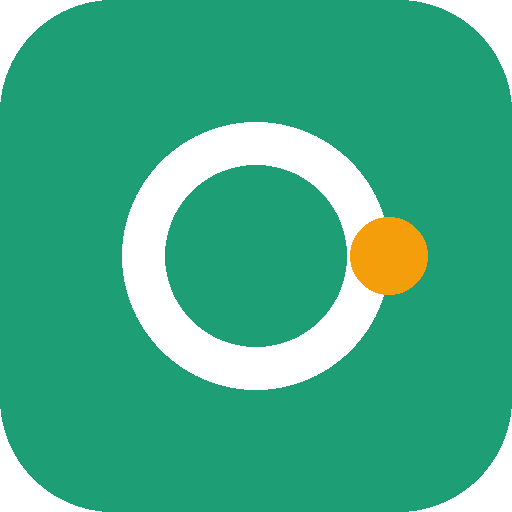
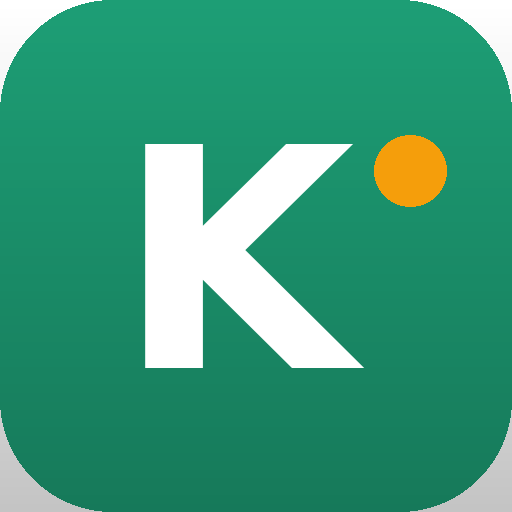
Add files via upload

diff --git a/index.html b/index.html
@@ -6,13 +6,13 @@
 <meta name="viewport" content="width=device-width, initial-scale=1, maximum-scale=1, user-scalable=no, viewport-fit=cover">
 <meta name="theme-color" content="#F2F3F7" media="(prefers-color-scheme: light)">
 <meta name="theme-color" content="#0C0E15" media="(prefers-color-scheme: dark)">
-<title>Ocosingo</title>
+<title>Kiosko</title>
 <link rel="manifest" href="manifest.json">
 <link rel="apple-touch-icon" href="icons/icon-192.png">
 <meta name="apple-mobile-web-app-capable" content="yes">
 <meta name="mobile-web-app-capable" content="yes">
 <meta name="apple-mobile-web-app-status-bar-style" content="default">
-<meta name="apple-mobile-web-app-title" content="Ocosingo">
+<meta name="apple-mobile-web-app-title" content="Kiosko">
 <link rel="preconnect" href="https://fonts.googleapis.com">
 <link href="https://fonts.googleapis.com/css2?family=Plus+Jakarta+Sans:wght@500;600;700;800&display=swap" rel="stylesheet">
 <style>
@@ -162,6 +162,8 @@ input{font:inherit;color:inherit}
 .sheet{width:100%;max-width:640px;background:var(--bg);border-radius:26px 26px 0 0;padding:10px 18px calc(20px + env(safe-area-inset-bottom));max-height:92vh;overflow-y:auto;animation:up .38s var(--ease)}
 @keyframes up{from{transform:translateY(100%)}}
 .handle{width:38px;height:5px;border-radius:99px;background:var(--line);margin:0 auto 14px}
+.sheet.drag{transition:none}
+.sheet.snap{transition:transform .28s var(--ease)}
 .sheet h3{font-size:20px;font-weight:800;letter-spacing:-.03em;margin-bottom:14px}
 .prod{background:var(--card);border-radius:16px;padding:14px 16px;display:flex;justify-content:space-between;align-items:center;gap:12px;box-shadow:var(--shadow)}
 .prod b{font-size:15px;font-weight:700}
@@ -325,7 +327,8 @@ input{font:inherit;color:inherit}
 
 /* miniaturas de producto */
 .thumb{width:46px;height:46px;border-radius:12px;flex-shrink:0;overflow:hidden;position:relative;display:grid;place-items:center;font-weight:800;font-size:16px;color:#fff;background:var(--ph,var(--selva));letter-spacing:-.03em}
-.thumb img{position:absolute;inset:0;width:100%;height:100%;object-fit:cover;opacity:0;transition:opacity .3s}
+.thumb img{position:absolute;inset:0;width:100%;height:100%;object-fit:cover;opacity:0;transition:opacity .3s;border-radius:inherit}
+.thumb{-webkit-mask-image:-webkit-radial-gradient(#fff,#000);isolation:isolate}
 .thumb img.ok{opacity:1}
 .thumb.lg{width:64px;height:64px;border-radius:16px;font-size:22px}
 .thumb.sm{width:36px;height:36px;border-radius:10px}
@@ -354,8 +357,8 @@ input{font:inherit;color:inherit}
 .gal-wrap .gal-track .thumb{aspect-ratio:5/4}
 .gal-wrap+.prod.compact{margin-top:0}
 /* galería en hoja de venta */
-.gal{position:relative;margin:-4px 0 12px;border-radius:20px;overflow:hidden;background:transparent;box-shadow:var(--shadow);-webkit-mask-image:-webkit-radial-gradient(#fff,#000);isolation:isolate}
-.gal-track{display:flex;overflow-x:auto;scroll-snap-type:x mandatory;scrollbar-width:none;-webkit-overflow-scrolling:touch;border-radius:inherit}
+.gal{position:relative;margin:-4px 0 12px;border-radius:20px;overflow:hidden;background:transparent;box-shadow:var(--shadow);clip-path:inset(0 round 20px);-webkit-clip-path:inset(0 round 20px)}
+.gal-track{display:flex;overflow-x:auto;scroll-snap-type:x mandatory;scrollbar-width:none;-webkit-overflow-scrolling:touch;border-radius:20px;background:transparent}
 .gal-track::-webkit-scrollbar{display:none}
 .gal-track .thumb{flex:0 0 100%;width:100%;height:auto;aspect-ratio:4/3;border-radius:20px;font-size:40px;scroll-snap-align:start}
 .gal-track .thumb .ph{width:28%;height:28%}
@@ -465,8 +468,8 @@ input{font:inherit;color:inherit}
 <!-- LOGIN -->
 <div id="login">
   <div class="brand">
-    <div class="brand-mark">Oc</div>
-    <h1>Tienda Ocosingo</h1>
+    <div class="brand-mark">Ki</div>
+    <h1>Kiosko</h1>
     <p>Ingresa tu PIN</p>
   </div>
   <div class="pin-dots" id="dots"><span></span><span></span><span></span><span></span></div>
@@ -546,7 +549,7 @@ input{font:inherit;color:inherit}
     <div id="quick-list"></div>
   </div>
 </div>
-<div id="ptr" class="ptr">Oc</div>
+<div id="ptr" class="ptr">Ki</div>
 <div id="success" class="success hidden"></div>
 <div id="toast" class="toast hidden"></div>
 
@@ -663,8 +666,37 @@ document.addEventListener('DOMContentLoaded',()=>{
     document.querySelectorAll('#filtros button').forEach(x=>x.classList.remove('on'));b.classList.add('on');state.filtro=b.dataset.f;renderVentas();
   }));
   setupPullToRefresh();
+  setupSwipeSheets();
   entrarRecordado();
 });
+
+/* Deslizar la hoja hacia abajo para cerrarla (solo cuando está arriba del todo y el gesto es vertical). */
+function setupSwipeSheets(){
+  const cierres={'sheet-venta':()=>cerrarVenta(),'sheet-quick':()=>cerrarQuick(),'sheet-usuario':()=>cerrarUsuarios()};
+  document.querySelectorAll('.overlay .sheet').forEach(sh=>{
+    const id=sh.parentElement.id;let y0=null,x0=0,dy=0,activo=false,decidido=false;
+    sh.addEventListener('touchstart',e=>{if(sh.scrollTop>2)return;y0=e.touches[0].clientY;x0=e.touches[0].clientX;dy=0;activo=false;decidido=false;},{passive:true});
+    sh.addEventListener('touchmove',e=>{
+      if(y0===null)return;
+      const t=e.touches[0],ddy=t.clientY-y0,ddx=t.clientX-x0;
+      if(!decidido){if(Math.abs(ddy)<8&&Math.abs(ddx)<8)return;decidido=true;activo=ddy>0&&Math.abs(ddy)>Math.abs(ddx)*1.2;if(activo){sh.classList.add('drag');sh.classList.remove('snap');}}
+      if(!activo)return;
+      dy=Math.max(0,ddy);
+      sh.style.transform=`translateY(${dy*0.85}px)`;
+      sh.parentElement.style.background=`rgba(15,18,34,${Math.max(.05,.4-dy/600)})`;
+      if(dy>110&&!sh.dataset.armed){sh.dataset.armed='1';buzz(10);}
+      if(dy<=110)delete sh.dataset.armed;
+    },{passive:true});
+    const fin=()=>{
+      if(y0===null)return;y0=null;
+      if(!activo)return;
+      sh.classList.remove('drag');sh.classList.add('snap');delete sh.dataset.armed;
+      if(dy>110){buzz(18);sh.style.transform='translateY(110%)';setTimeout(()=>{cierres[id]();sh.style.transform='';sh.parentElement.style.background='';sh.classList.remove('snap');},220);}
+      else{sh.style.transform='';sh.parentElement.style.background='';setTimeout(()=>sh.classList.remove('snap'),300);}
+    };
+    sh.addEventListener('touchend',fin);sh.addEventListener('touchcancel',fin);
+  });
+}
 
 const buzz=(ms=8)=>{try{navigator.vibrate&&navigator.vibrate(ms)}catch(e){}};
 
@@ -823,7 +855,7 @@ function armarDashboard(){
     <div class="section-title">Este mes</div>
     <div class="group">
       ${fila('sum','Ventas del mes','v-total','','totalMes','grey','<svg class="spark" id="spark" viewBox="0 0 72 26"></svg>')}
-      ${fila('box','Artículos vendidos','v-art','','artMes','grey')}
+      ${fila('box','Artículos vendidos','v-art','','artMes','grey','Incluye transferidos')}
     </div>
     <div class="section-title">Historial</div>
     <div class="chart-card">
@@ -1210,7 +1242,7 @@ function renderVentas(){
 
 /* ---------- USUARIO ---------- */
 function abrirUsuarios(){
-  const u=[['Irene','Ventas en Ocosingo'],['Mamá','Ventas ocasionales'],['Alex','Administrador']];
+  const u=[['Irene','Vendedora principal'],['Mamá','Ventas ocasionales'],['Alex','Administrador']];
   document.getElementById('user-list').innerHTML=u.map(([n,d])=>`
     <button class="user ${state.usuario===n?'on':''}" onclick="cambiarUsuario('${n}')" style="width:100%;text-align:left">
       <div class="avatar ${claseUsuario(n)}">${n[0]}</div><div><b>${n}</b><small>${d}</small></div></button>`).join('')+
